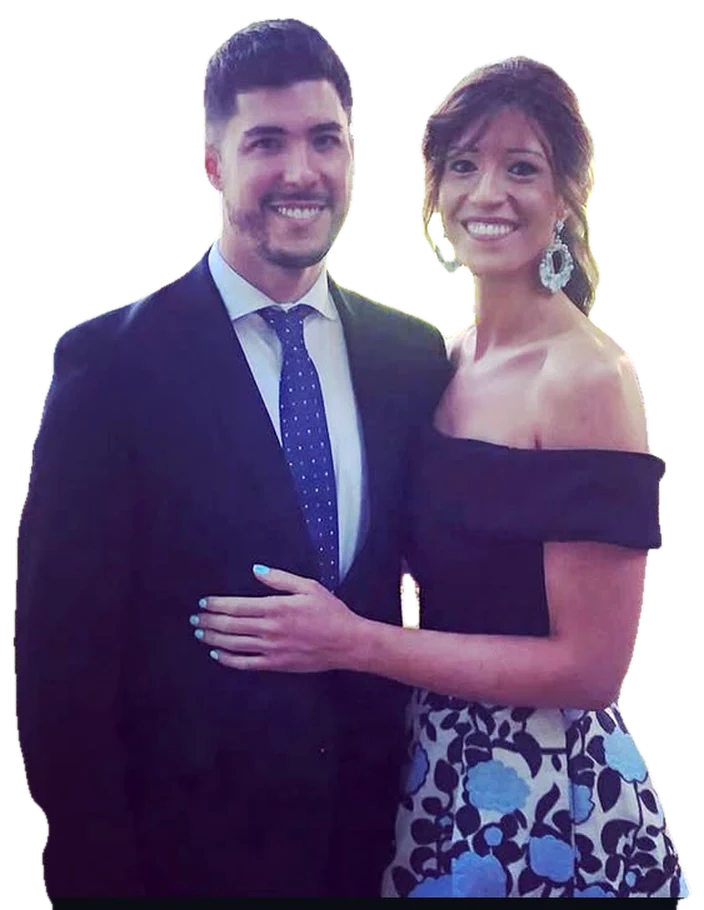
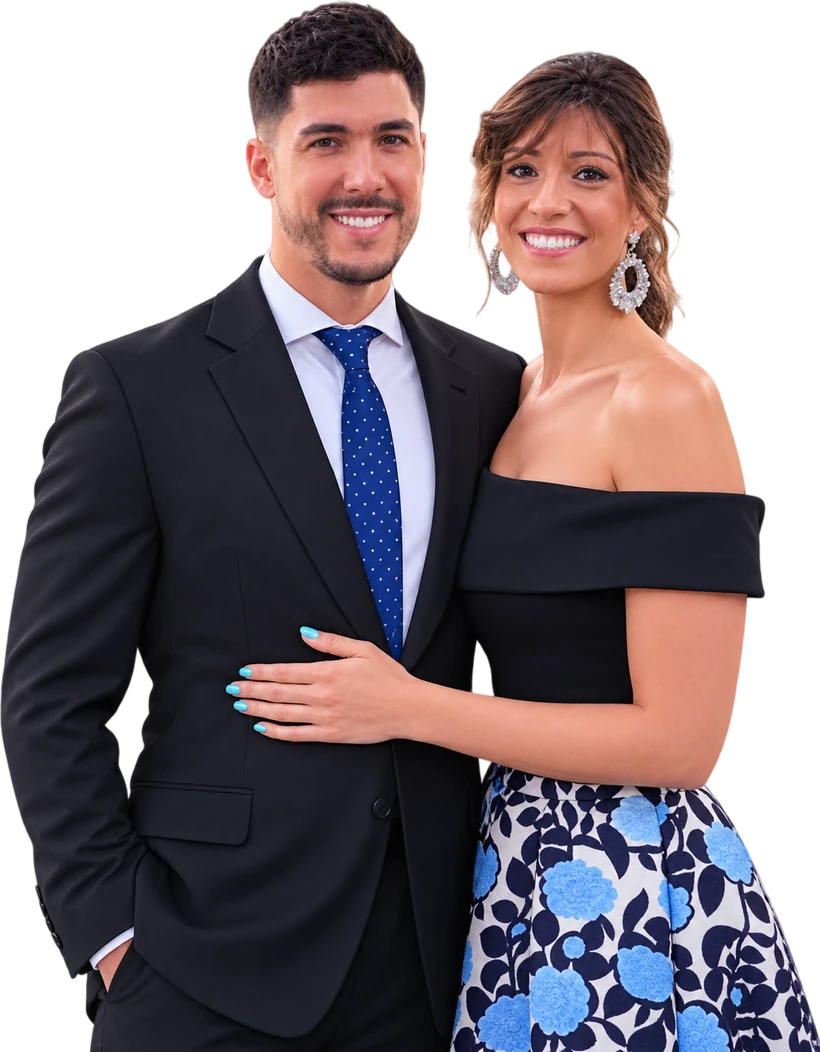
Nueva foto de Javi y Pilu en el hero
Claude-Session: https://claude.ai/code/session_01C5ZeNek14SHPGvVaR3bgfn

diff --git a/css/estilos.css b/css/estilos.css
@@ -895,7 +895,7 @@ img.linea-icono { width: 82px; height: 74px; object-fit: contain; object-positio
    La pareja ocupa el centro de la columna, el fotomatón queda a su derecha sin taparles
    y la foto se mete por debajo del papel rasgado. */
 .hero-fotos { justify-content: flex-start; align-items: flex-end; }
-.hueco-pareja { width: calc(100% - var(--fw) * .7); max-width: 480px; aspect-ratio: 704 / 910; margin-left: -3%; margin-bottom: -3.4rem; }
+.hueco-pareja { width: calc(100% - var(--fw) * .7); max-width: 480px; aspect-ratio: 820 / 1052; margin-left: -3%; margin-bottom: -3.4rem; }
 .hueco-pareja img { object-position: left bottom; filter: drop-shadow(0 6px 14px rgba(24, 61, 94, .12)); }
 @media (max-width: 900px) {
   .hero-fotos { justify-content: center; }
